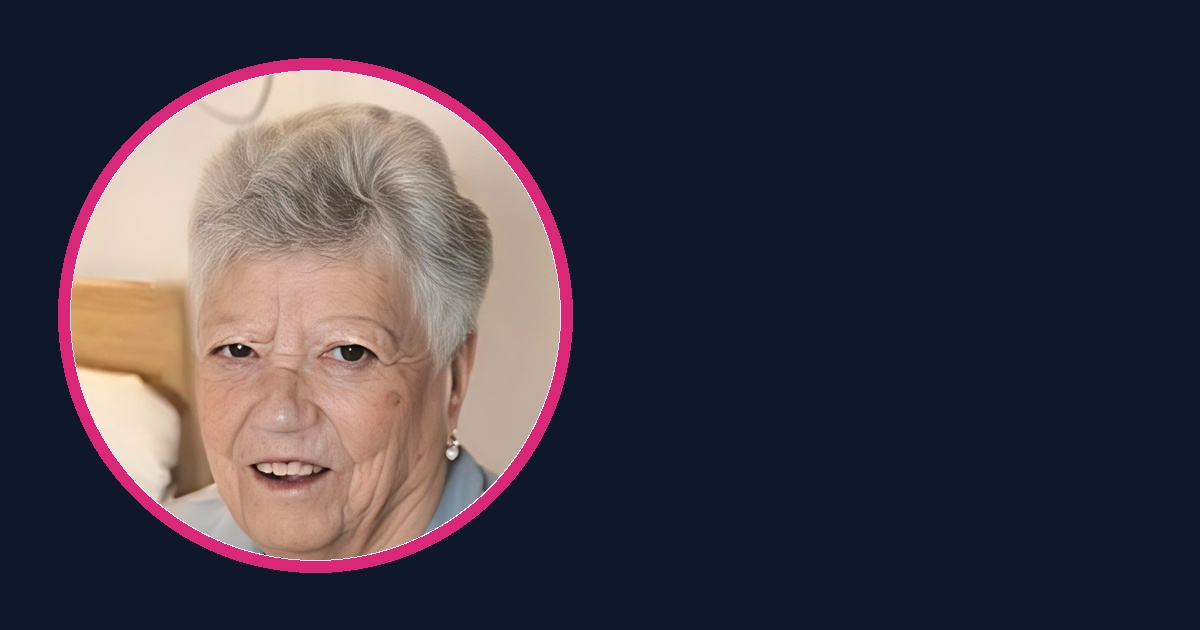
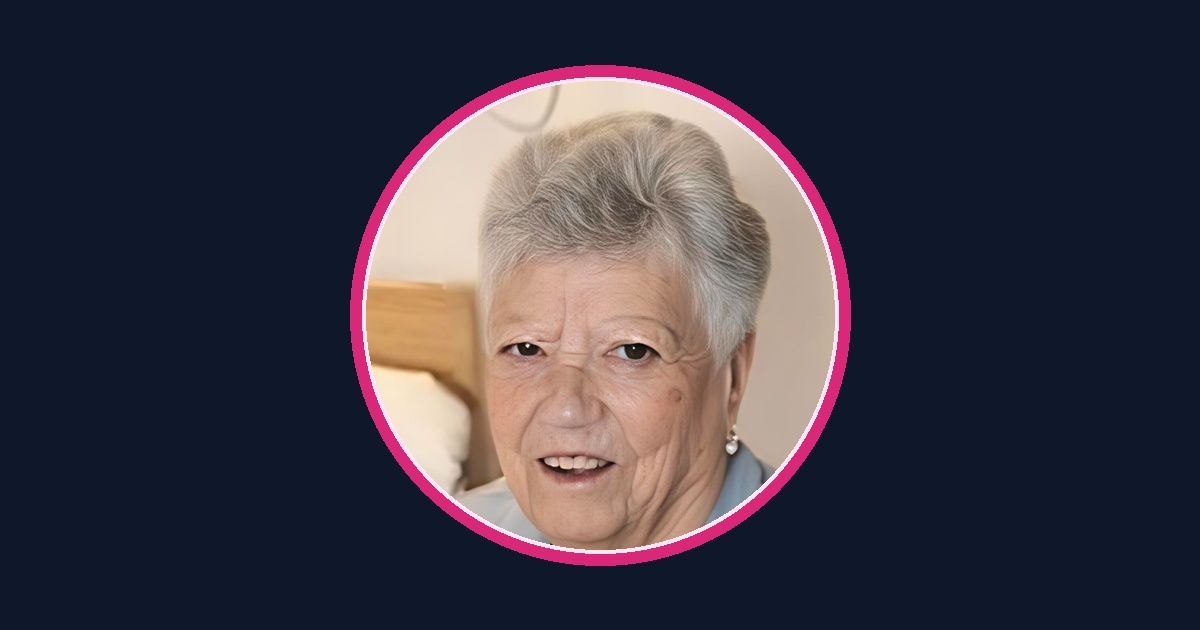
Tarjeta de WhatsApp con retrato grande centrado (1200x630) y URL absoluta

diff --git a/cuadrante_mataro.html b/cuadrante_mataro.html
@@ -12,17 +12,19 @@
   <meta name="apple-mobile-web-app-title" content="Vicenta" />
 
   <!-- Metadatos para compartir por WhatsApp / Mensajería -->
+  <meta property="og:type" content="website" />
+  <meta property="og:site_name" content="Cuadrante Vicenta · Mataró" />
   <meta property="og:title" content="Cuadrante de Servicio y Paseo · Vicenta (Mataró)" />
   <meta property="og:description" content="Avisos diarios con voz, horarios de limpieza y paseos para Vicenta Serrano Machín en Mataró. Coordinado por Domingo Martínez Serrano." />
-  <meta property="og:image" content="https://domitrader.github.io/cuadrante-vicenta/whatsapp-thumb.jpg" />
-  <meta property="og:image:secure_url" content="https://domitrader.github.io/cuadrante-vicenta/whatsapp-thumb.jpg" />
+  <meta property="og:image" content="https://domitrader.github.io/cuadrante-vicenta/og-image.jpg?v=3" />
+  <meta property="og:image:secure_url" content="https://domitrader.github.io/cuadrante-vicenta/og-image.jpg?v=3" />
   <meta property="og:image:type" content="image/jpeg" />
-  <meta property="og:image:width" content="600" />
-  <meta property="og:image:height" content="600" />
-  <meta property="og:type" content="website" />
-  <meta name="twitter:card" content="summary" />
-  <meta name="twitter:image" content="https://domitrader.github.io/cuadrante-vicenta/whatsapp-thumb.jpg" />
-  <link rel="image_src" href="https://domitrader.github.io/cuadrante-vicenta/whatsapp-thumb.jpg" />
+  <meta property="og:image:width" content="1200" />
+  <meta property="og:image:height" content="630" />
+  <meta property="og:image:alt" content="Retrato de Vicenta Serrano Machín" />
+  <meta name="twitter:card" content="summary_large_image" />
+  <meta name="twitter:image" content="https://domitrader.github.io/cuadrante-vicenta/og-image.jpg?v=3" />
+  <link rel="image_src" href="https://domitrader.github.io/cuadrante-vicenta/og-image.jpg?v=3" />
   <title>Cuadrante Servicio y Paseo — Vicenta Serrano Machín · Mataró (2026–2027)</title>
   <meta name="description" content="Cuadrante de limpieza y paseo para Vicenta Serrano Machín en Mataró (Cataluña), años naturales 2026 y 2027, gestionado por Domingo Martínez Serrano." />
   <meta name="theme-color" content="#0f172a" />

diff --git a/index.html b/index.html
@@ -12,17 +12,19 @@
   <meta name="apple-mobile-web-app-title" content="Vicenta" />
 
   <!-- Metadatos para compartir por WhatsApp / Mensajería -->
+  <meta property="og:type" content="website" />
+  <meta property="og:site_name" content="Cuadrante Vicenta · Mataró" />
   <meta property="og:title" content="Cuadrante de Servicio y Paseo · Vicenta (Mataró)" />
   <meta property="og:description" content="Avisos diarios con voz, horarios de limpieza y paseos para Vicenta Serrano Machín en Mataró. Coordinado por Domingo Martínez Serrano." />
-  <meta property="og:image" content="https://domitrader.github.io/cuadrante-vicenta/whatsapp-thumb.jpg" />
-  <meta property="og:image:secure_url" content="https://domitrader.github.io/cuadrante-vicenta/whatsapp-thumb.jpg" />
+  <meta property="og:image" content="https://domitrader.github.io/cuadrante-vicenta/og-image.jpg?v=3" />
+  <meta property="og:image:secure_url" content="https://domitrader.github.io/cuadrante-vicenta/og-image.jpg?v=3" />
   <meta property="og:image:type" content="image/jpeg" />
-  <meta property="og:image:width" content="600" />
-  <meta property="og:image:height" content="600" />
-  <meta property="og:type" content="website" />
-  <meta name="twitter:card" content="summary" />
-  <meta name="twitter:image" content="https://domitrader.github.io/cuadrante-vicenta/whatsapp-thumb.jpg" />
-  <link rel="image_src" href="https://domitrader.github.io/cuadrante-vicenta/whatsapp-thumb.jpg" />
+  <meta property="og:image:width" content="1200" />
+  <meta property="og:image:height" content="630" />
+  <meta property="og:image:alt" content="Retrato de Vicenta Serrano Machín" />
+  <meta name="twitter:card" content="summary_large_image" />
+  <meta name="twitter:image" content="https://domitrader.github.io/cuadrante-vicenta/og-image.jpg?v=3" />
+  <link rel="image_src" href="https://domitrader.github.io/cuadrante-vicenta/og-image.jpg?v=3" />
   <title>Cuadrante Servicio y Paseo — Vicenta Serrano Machín · Mataró (2026–2027)</title>
   <meta name="description" content="Cuadrante de limpieza y paseo para Vicenta Serrano Machín en Mataró (Cataluña), años naturales 2026 y 2027, gestionado por Domingo Martínez Serrano." />
   <meta name="theme-color" content="#0f172a" />
